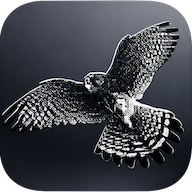
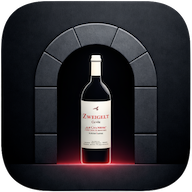
implement v0.9.7: filter row reorder and cycling sort button
Reorder filter bar to [filter icon] [bottle images] [sort button].
Replace sort dropdown with a button that cycles through vintage-desc,
vintage-asc, and newest on each tap. Update PWA icons.

diff --git a/app/src/routes/+page.svelte b/app/src/routes/+page.svelte
@@ -28,7 +28,6 @@
 	let bottleFilter: BottleFilter = $state('in-stock')
 
 	let showFilterMenu = $state(false)
-	let showSortMenu = $state(false)
 
 	let settings: SyncSettings = $state({ repo: '', pat: '' })
 	let online = $state(true)
@@ -137,9 +136,11 @@
 		activeCountry = countries.includes(val) ? val : null
 	}
 
-	function setSort(sort: SortOption) {
-		activeSort = sort
-		showSortMenu = false
+	const sortOrder: SortOption[] = ['vintage-desc', 'vintage-asc', 'added-newest']
+
+	function cycleSort() {
+		const idx = sortOrder.indexOf(activeSort)
+		activeSort = sortOrder[(idx + 1) % sortOrder.length]
 	}
 
 	async function handleSync() {
@@ -223,7 +224,6 @@
 				<button
 					onclick={() => {
 						showFilterMenu = !showFilterMenu
-						showSortMenu = false
 					}}
 					class="flex items-center gap-1 px-2.5 py-1.5 rounded-full border
 						{activeProducer !== null || activeCountry !== null || bottleFilter !== 'in-stock'
@@ -306,32 +306,6 @@
 					</div>
 				{/if}
 			</div>
-			<div class="relative">
-				<button
-					onclick={() => {
-						showSortMenu = !showSortMenu
-						showFilterMenu = false
-					}}
-					class="px-3 py-1.5 text-sm font-medium rounded-full border border-gray-300 text-gray-700"
-				>
-					{sortLabels[activeSort]}
-				</button>
-				{#if showSortMenu}
-					<div
-						class="absolute left-0 top-full mt-1 z-10 bg-white rounded-lg shadow-lg border border-gray-200 py-1 min-w-40"
-					>
-						{#each ['vintage-desc', 'vintage-asc', 'added-newest'] as const as sort (sort)}
-							<button
-								onclick={() => setSort(sort)}
-								class="w-full text-left px-3 py-2 text-sm
-									{activeSort === sort ? 'text-wine font-medium' : 'text-gray-700'}"
-							>
-								{sortLabels[sort]}
-							</button>
-						{/each}
-					</div>
-				{/if}
-			</div>
 			{#each ['red', 'white', 'sparkling', 'dessert'] as const as type (type)}
 				<button
 					onclick={() => setType(activeType === type ? null : type)}
@@ -343,6 +317,12 @@
 					<img src="/bottle-{type}.png" alt={typeLabels[type]} class="w-8 h-8 object-contain" />
 				</button>
 			{/each}
+			<button
+				onclick={cycleSort}
+				class="px-3 py-1.5 text-sm font-medium rounded-full border border-gray-300 text-gray-700"
+			>
+				{sortLabels[activeSort]}
+			</button>
 		</div>
 
 		{#if isFiltered}

diff --git a/docs/plan/v0.9.7-filter-row-cycle-sort.md b/docs/plan/v0.9.7-filter-row-cycle-sort.md
@@ -1,0 +1,18 @@
+# v0.9.7 — Filter row reorder + cycling sort
+
+## Goal
+Reorder the filter row and replace the sort dropdown with a cycling button.
+
+## Acceptance criteria
+- Filter row order: [Filter icon + dropdown] → [bottle images] → [Sort button]
+- Sort button shows the current sort label and cycles through options on each tap:
+  vintage-desc → vintage-asc → added-newest → vintage-desc
+- No sort dropdown; `showSortMenu` state is removed
+
+## Changes
+- `app/src/routes/+page.svelte`
+  - Remove `showSortMenu` state
+  - Replace `setSort()` with `cycleSort()` using a fixed order array
+  - Move bottle image buttons before sort button in template
+  - Replace sort dropdown block with a single cycling button
+- `app/package.json` — bump to 0.9.7
